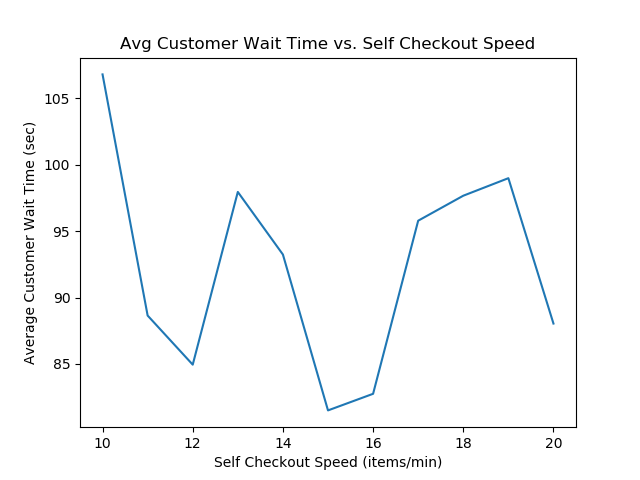
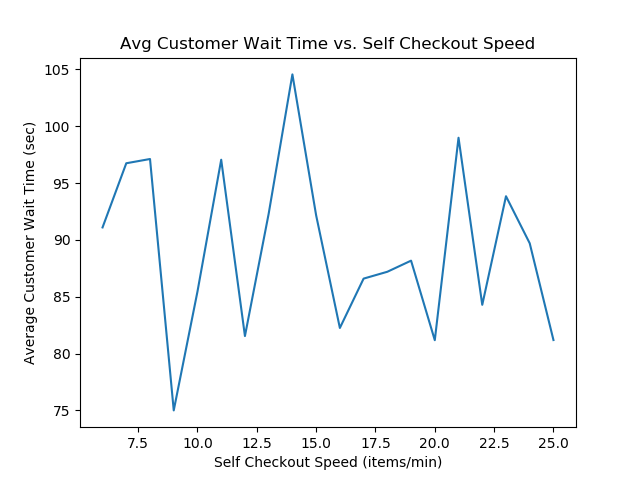
Expanded simulation

diff --git a/Driver.py b/Driver.py
@@ -1,6 +1,7 @@
 from Store import Store, SelfCheckOutAgent, EmployeeCheckOutAgent
 import matplotlib.pyplot as plt
 import time
+import datetime
 from matplotlib.animation import ArtistAnimation
 import csv
 
@@ -52,7 +53,7 @@ def get_store_metrics(numRegisters, secPerItemE, secPerItemS,
     # print(f"Actual Total Customers: {store.temp_total}")
     # print("Customers Processed: ", totalProcessed)
     # print("Time per person: ", round(simTime / (totalProcessed / numRegisters), 2), "seconds per customer")
-    return (totalWaitTime / (60 * store.temp_total), store.temp_total, totalProcessed, emp_regs, self_kiosks)
+    return totalWaitTime / (60 * store.temp_total), store.temp_total, totalProcessed, emp_regs, self_kiosks
 
     # animation = ArtistAnimation(fig, ims, interval=10, blit=True)
 
@@ -67,45 +68,55 @@ if __name__ == "__main__":
     customerSpawnRate = 1
     # get_store_metrics(numRegisters, secPerItemE, secPerItemS, chanceSelfCheckout, customerSpawnRate)
 
+    # logging how long the simulation suite takes
+    startTime = datetime.datetime.now().replace(microsecond=0)
+
     testingSuite = 0
     print("Finished round ", testingSuite, "of 5")
     register_list = [get_store_metrics(reg_val, secPerItemE, secPerItemS, chanceSelfCheckout, customerSpawnRate)
-                     for reg_val in [5, 10, 15, 20, 25, 30]]
+                     for reg_val in [1, 2, 3, 4, 5, 6, 7, 8, 9, 10, 15, 20, 25, 30]]
     testingSuite += 1
     print("Finished round ", testingSuite, "of 5")
 
-    employee_speed_list = [get_store_metrics(numRegisters, item_speed, secPerItemS, chanceSelfCheckout, customerSpawnRate)
-                     for item_speed in [15, 16, 17, 18, 19, 20, 21, 22, 23, 24, 25, 26, 27, 28, 29, 30]]
+    employee_speed_list = [
+        get_store_metrics(numRegisters, item_speed, secPerItemS, chanceSelfCheckout, customerSpawnRate)
+        for item_speed in [5, 6, 7, 8, 9, 10, 11, 12, 13, 14, 15, 16, 17, 18, 19, 20, 21, 22, 23, 24, 25, 26, 27, 28,
+                           29, 30, 31, 32, 33, 34, 35, 36, 37, 38, 39, 40]]
     testingSuite += 1
     print("Finished round ", testingSuite, "of 5")
 
     self_speed_list = [get_store_metrics(numRegisters, secPerItemE, item_speed, chanceSelfCheckout, customerSpawnRate)
-                       for item_speed in [10, 11, 12, 13, 14, 15, 16, 17, 18, 19, 20]]
+                       for item_speed in [6, 7, 8, 9, 10, 11, 12, 13, 14, 15, 16, 17, 18, 19, 20, 21, 22, 23, 24, 25]]
     testingSuite += 1
     print("Finished round ", testingSuite, "of 5")
 
-    chance_self_list = [get_store_metrics(numRegisters, secPerItemE, secPerItemS, indiv_chance, customerSpawnRate)
-                        for indiv_chance in [.1, .2, .3, .4, .5]]
-    testingSuite += 1
-    print("Finished round ", testingSuite, "of 5")
+    # chance_self_list = [get_store_metrics(numRegisters, secPerItemE, secPerItemS, indiv_chance, customerSpawnRate)
+    #                     for indiv_chance in [.1, .2, .3, .4, .5, .6, .7, .8, .9, 1]]
+    # testingSuite += 1
+    # print("Finished round ", testingSuite, "of 5")
 
     spawn_rate_list = [get_store_metrics(numRegisters, secPerItemE, secPerItemS, chanceSelfCheckout, indiv_chance)
-                       for indiv_chance in [.5, .6, .7, .8, .9]]
+                       for indiv_chance in [.1, .2, .3, .4, .5]]
     testingSuite += 1
     print("Finished round ", testingSuite, "of 5")
 
-    """with open("register_data.csv", "w") as f:
+    with open("register_data_expanded.csv", "w") as f:
         writer = csv.writer(f)
-        writer.writerows(zip([5, 10, 15, 20, 25, 30], register_list))
-    with open("employee_speed_data.csv", "w") as f:
+        writer.writerows(zip([1, 2, 3, 4, 5, 6, 7, 8, 9, 10, 15, 20, 25, 30], register_list))
+    with open("employee_speed_data_expanded.csv", "w") as f:
         writer = csv.writer(f)
-        writer.writerows(zip([15, 16, 17, 18, 19, 20, 21, 22, 23, 24, 25, 26, 27, 28, 29, 30], employee_speed_list))"""
-    with open("self_speed_data.csv", "w") as f:
+        writer.writerows(zip([5, 6, 7, 8, 9, 10, 11, 12, 13, 14, 15, 16, 17, 18, 19, 20, 21, 22, 23, 24, 25, 26, 27, 28,
+                              29, 30, 31, 32, 33, 34, 35, 36, 37, 38, 39, 40], employee_speed_list))
+    with open("self_speed_data_expanded.csv", "w") as f:
         writer = csv.writer(f)
-        writer.writerows(zip([10, 11, 12, 13, 14, 15, 16, 17, 18, 19, 20], self_speed_list))
-    with open("self_checkout_chance_data.csv", "w") as f:
+        writer.writerows(zip([6, 7, 8, 9, 10, 11, 12, 13, 14, 15, 16, 17, 18, 19, 20, 21, 22, 23, 24, 25],
+                             self_speed_list))
+    # with open("self_checkout_chance_data_expanded.csv", "w") as f:
+    #     writer = csv.writer(f)
+    #     writer.writerows(zip([.1, .2, .3, .4, .5], chance_self_list))
+    with open("customer_spawn_rate_data_expanded", "w") as f:
         writer = csv.writer(f)
-        writer.writerows(zip([.1, .2, .3, .4, .5], chance_self_list))
-    with open("customer_spawn_rate_data", "w") as f:
-        writer = csv.writer(f)
-        writer.writerows(zip([.5, .6, .7, .8, .9, 1], spawn_rate_list))
+        writer.writerows(zip([.1, .2, .3, .4, .5, .6, .7, .8, .9, 1], spawn_rate_list))
+
+    endTime = datetime.datetime.now().replace(microsecond=0)
+    print("The simulation suite took ", endTime - startTime, "to run")

diff --git a/Analysis.py b/Analysis.py
@@ -31,13 +31,15 @@ def plot(table, xcol, ycol, xlabel, ylabel, title):
 
     plt.title(title)
     plt.savefig(fname="plots/" + title.replace(" ", "_").replace("(", "").replace(")", "").replace("/", "") + ".png")
+    plt.show()
     plt.cla()
 
 
-employee_speed = get_table("employee_speed_data.csv")
-self_speed = get_table("self_speed_data.csv")
-self_prob = get_table("self_checkout_chance_data.csv")
-customer_spawn = get_table("register_data.csv")
+employee_speed = get_table("employee_speed_data_expanded.csv")
+self_speed = get_table("self_speed_data_expanded.csv")
+# self_prob = get_table("self_checkout_chance_data_expanded.csv")
+register_spawn = get_table("register_data_expanded.csv")
+customer_spawn = get_table("customer_spawn_rate_data_expanded")
 
 # Table Layout
 #
@@ -74,13 +76,18 @@ plot(self_speed, 0, 3,
      "Total Customers Processed vs. Self Checkout Speed")
 
 # probability of a self-checkout being the register vs mean customer wait time
-plot(self_prob, 0, 1,
+plot(register_spawn, 0, 1,
      "Self Checkout Spawn Probability",
      "Average Customer Wait Time (sec)",
      "Avg Customer Wait Time vs. Self Checkout Spawn Probability")
 
 # probability of a self-checkout being the register vs total customers processed
-plot(self_prob, 0, 3,
+plot(register_spawn, 0, 3,
      "Self Checkout Spawn Probability",
      "Total Customers Processed",
      "Total Customers Processed vs. Self Checkout Spawn Probability")
+
+plot(customer_spawn, 0, 1,
+     "Customer Spawn Probability",
+     "Average Customer Wait Time (sec)",
+     "Avg Customer Wait Time vs. Customer Spawn Probability")

diff --git a/Store.py b/Store.py
@@ -34,7 +34,8 @@ class Store(object):
 
         for i in range(n):
             checkout = None
-            if random() < chanceSelfCheckout:
+            #if random() < chanceSelfCheckout:
+            if i < n/2:
                 checkout = EmployeeCheckOutAgent(i * (EMPLOYEE_WIDTH + SPACE_BETWEEN), 0, secPerItemE)
             else:
                 checkout = SelfCheckOutAgent(0, 0, secPerItemS)
